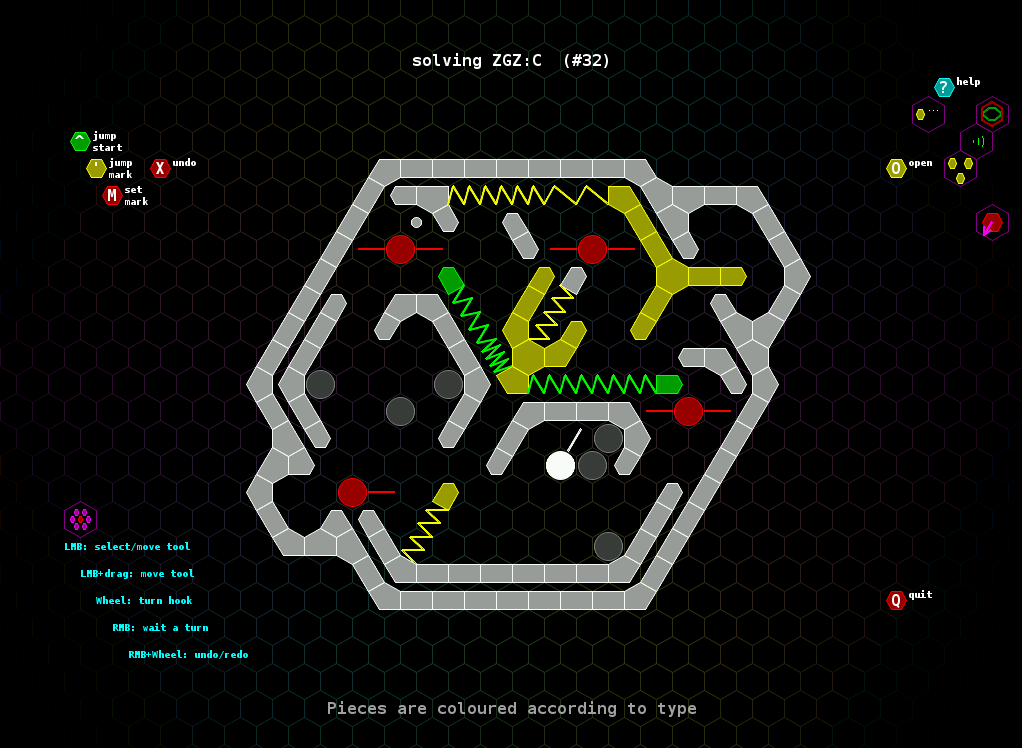
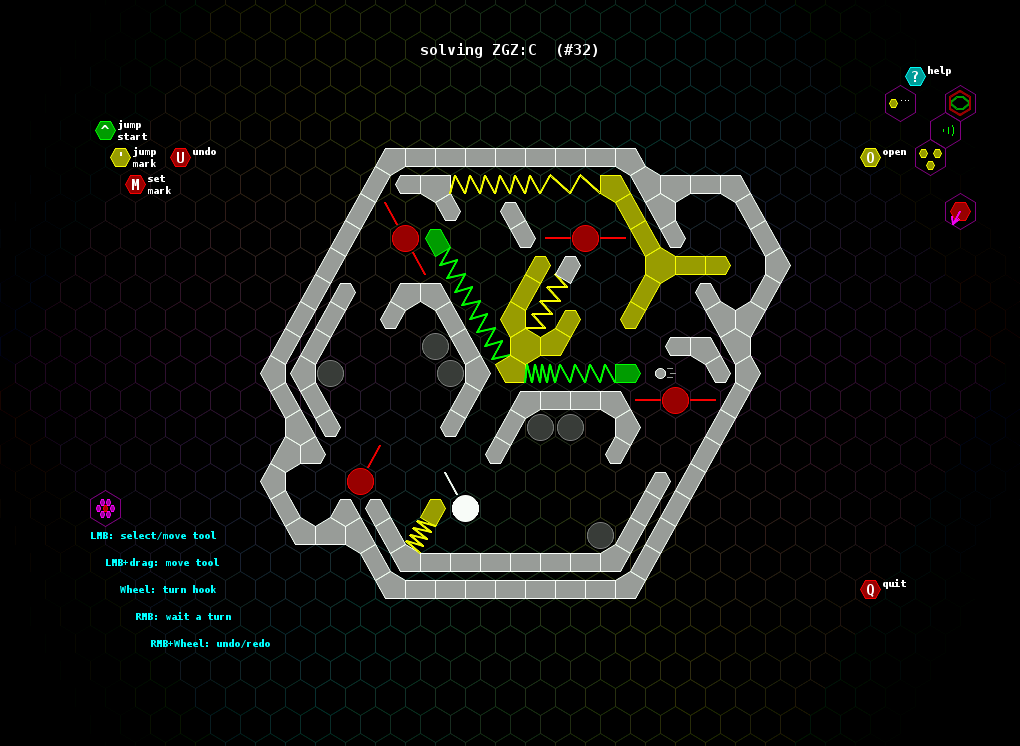
website tweaks

diff --git a/index.md b/index.md
@@ -42,12 +42,14 @@ Latest version is 0.6.1 ([NEWS](NEWS)).
 
 ##Discuss
 * [Web forum](http://intricacy.thegonz.net/forum/)
-* Mailing list: mail mbays@sdf.org with subject line '[intricacy-discuss] subscribe'.
+* Mailing list: mail mbays+intricacy@paunix.org with subject line '[intricacy-discuss] subscribe'.
 * IRC channel: #intricacy on irc.freenode.org
 
+<!--
 ##Introductory video
 Download: [47MB ogg theora 15m](intricacy.ogv)
 
 Stream: tell your video player to stream from
     <tt>http://mbays.freeshell.org/intricacy/intricacy.ogv</tt>,
 or [use youtube](http://www.youtube.com/watch?v=lmuSNe4bGAM).
+-->
